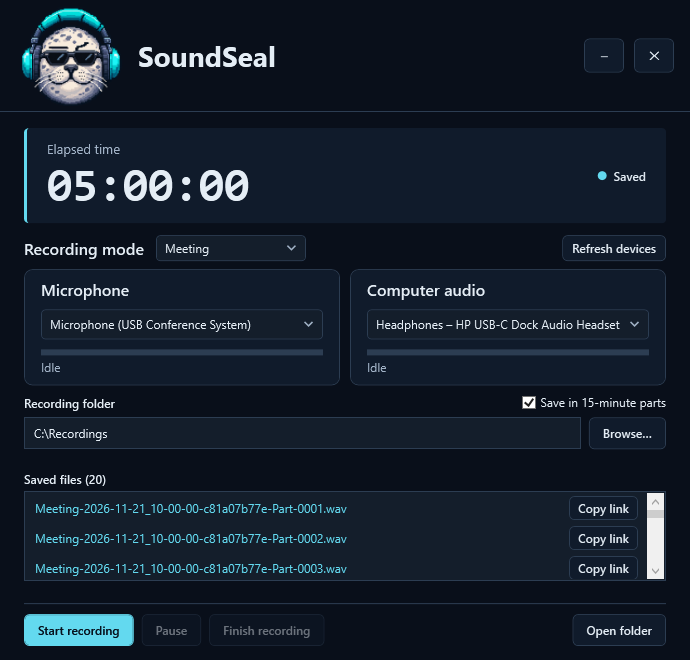
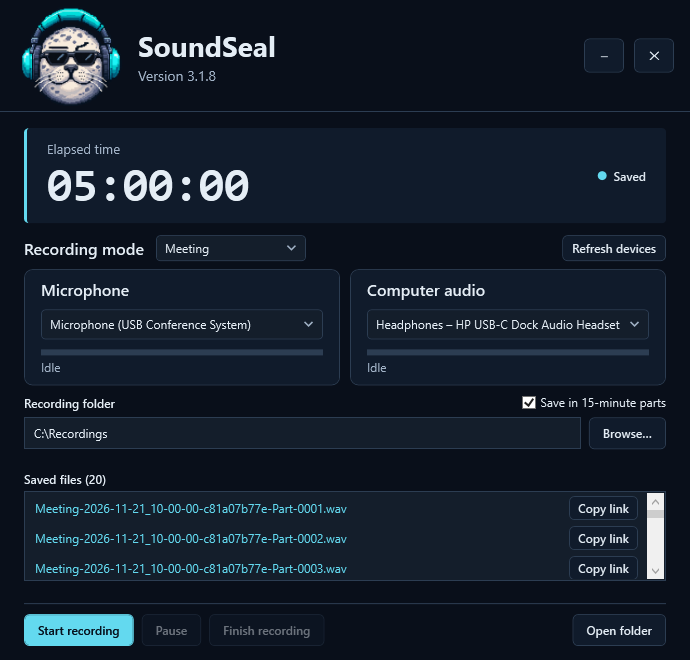
Show the running SoundSeal version in the window header

Changed region(s): [[0.1826, 0.0606, 0.3957, 0.1212]]

diff --git a/src/MeetingRecorder/Views/MainWindow.xaml b/src/MeetingRecorder/Views/MainWindow.xaml
@@ -40,7 +40,10 @@
                                 </Style>
                             </Image.Style>
                         </Image>
-                        <TextBlock Margin="14,0" VerticalAlignment="Center" Text="SoundSeal" FontSize="28" FontWeight="Bold"/>
+                        <StackPanel Margin="14,0" VerticalAlignment="Center">
+                            <TextBlock Text="SoundSeal" FontSize="28" FontWeight="Bold"/>
+                            <TextBlock x:Name="VersionLabel" Margin="0,2,0,0" FontSize="14" Foreground="{StaticResource Muted}"/>
+                        </StackPanel>
                     </StackPanel>
                 </DockPanel>
             </Border>

diff --git a/src/MeetingRecorder.Tests/RecorderViewModel.Tests.cs b/src/MeetingRecorder.Tests/RecorderViewModel.Tests.cs
@@ -321,6 +321,13 @@ public sealed class RecorderViewModelTests
 
             model.Microphone.Should().Be(microphone);
             model.Output.Should().Be(output);
+            var title = Descendants(window).OfType<TextBlock>().Single(text => text.Text == "SoundSeal");
+            var version = (TextBlock)window.FindName("VersionLabel");
+            var build = typeof(MainWindow).Assembly.GetName().Version!;
+            version.Text.Should().MatchRegex($@"^Version {build.Major}\.{build.Minor}\.{build.Build}(?:-[0-9A-Za-z.-]+)?$");
+            version.IsVisible.Should().BeTrue();
+            version.TranslatePoint(new Point(), window).Y.Should().BeGreaterThanOrEqualTo(
+                title.TranslatePoint(new Point(0, title.ActualHeight), window).Y);
             window.Icon.Should().NotBeNull();
             var logo = Descendants(window).OfType<Image>().Single();
             var idleLogo = logo.Source;

diff --git a/src/MeetingRecorder/Views/MainWindow.xaml.cs b/src/MeetingRecorder/Views/MainWindow.xaml.cs
@@ -1,4 +1,5 @@
 using System.ComponentModel;
+using System.Reflection;
 using System.Windows;
 using System.Windows.Input;
 
@@ -25,6 +26,8 @@ public partial class MainWindow : Window
         _model = model;
         _browser = browser;
         InitializeComponent();
+        var version = typeof(MainWindow).Assembly.GetCustomAttribute<AssemblyInformationalVersionAttribute>()!.InformationalVersion;
+        VersionLabel.Text = $"Version {version.Split('+')[0]}";
         DataContext = model;
         FolderPanel.DataContext = browser;
     }

diff --git a/README.md b/README.md
@@ -78,6 +78,8 @@ Click **Open folder** and select the WAV in your transcription tool. For a split
 
 ## Troubleshooting
 
+When reporting a recording issue, include the version shown below **SoundSeal** in the window header and the names of the selected devices.
+
 | What you see or hear | What to check |
 | --- | --- |
 | **Microphone** stays **Silent** while you speak | Check the selected input, the microphone's hardware mute switch, and the Windows input level. In Windows microphone privacy settings, allow desktop apps to access the microphone. |
@@ -111,6 +113,7 @@ The same Release coverage script was run on each revision. Percentages combine l
 | v3.1.3 | 154 | 1395 / 1548 (90.1%) | 731 / 786 (93.0%) |
 | v3.1.5 | 159 | 1401 / 1554 (90.2%) | 733 / 788 (93.0%) |
 | v3.1.7 | 166 | 1404 / 1557 (90.2%) | 739 / 794 (93.1%) |
+| v3.1.8 | 166 | 1406 / 1559 (90.2%) | 740 / 795 (93.1%) |
 
 The v2.0.0 domain suite and integration tests together exercise all 227 executable domain lines and all 96 domain branches. The full suite covers invalid value construction, immutable device and folder listings, cancellation before and during device startup, retry after cleanup, and publication after late cancellation.
 
